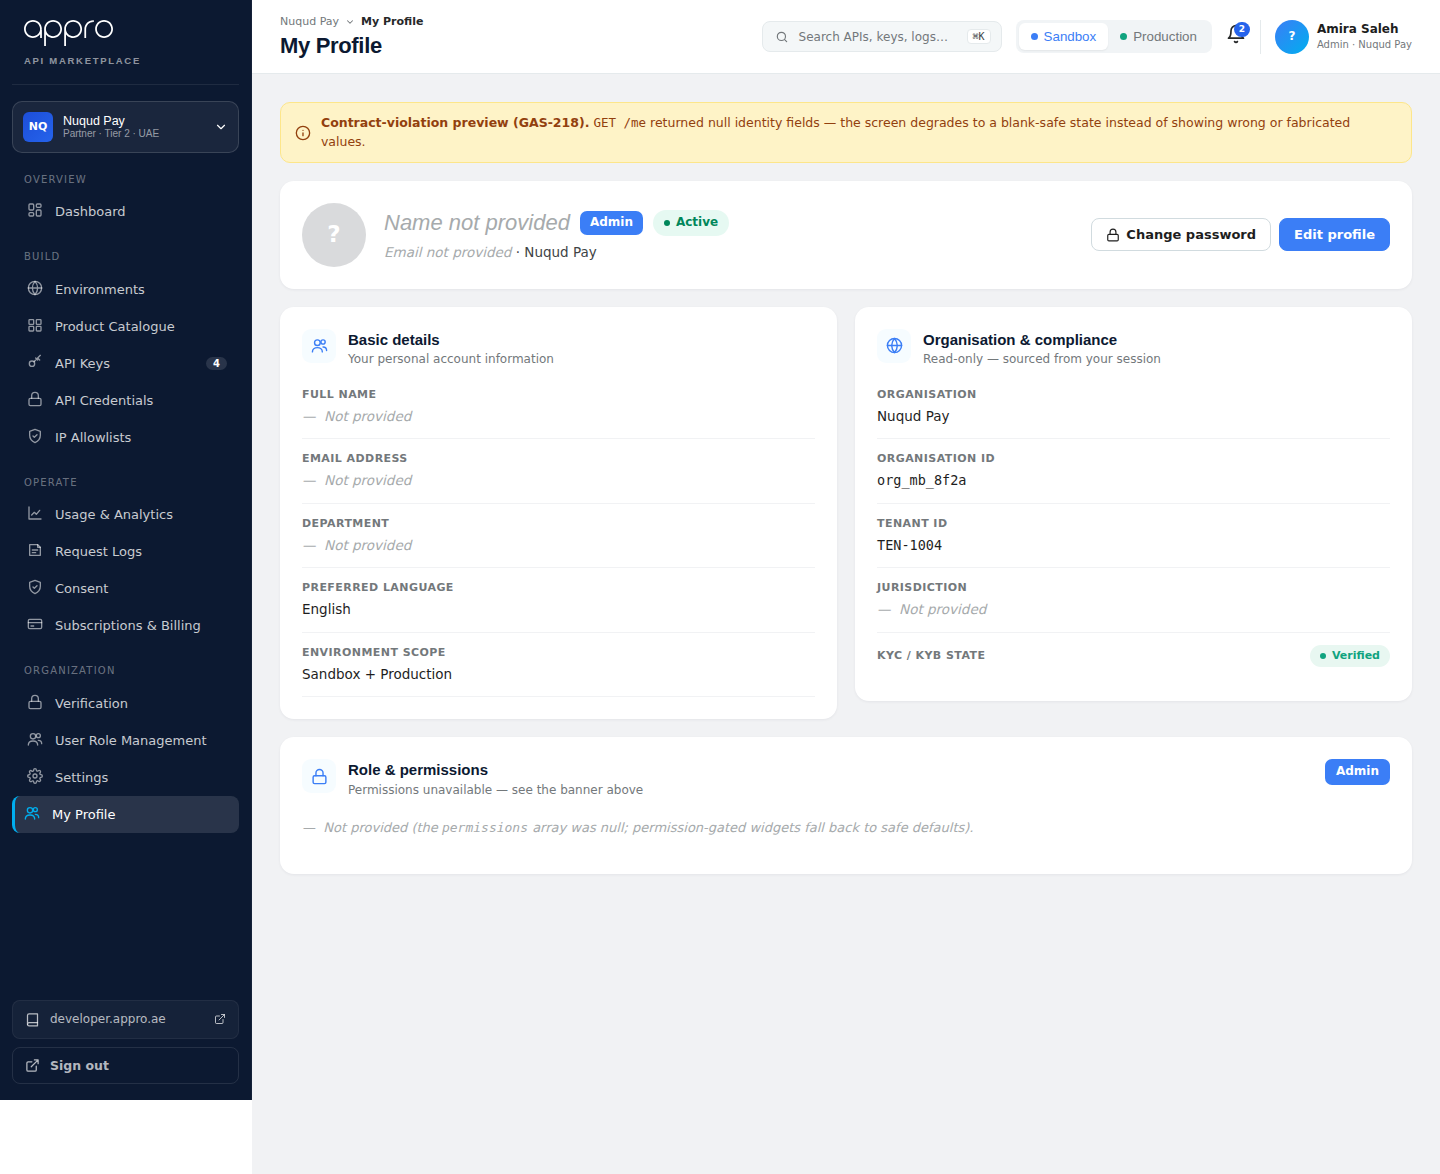
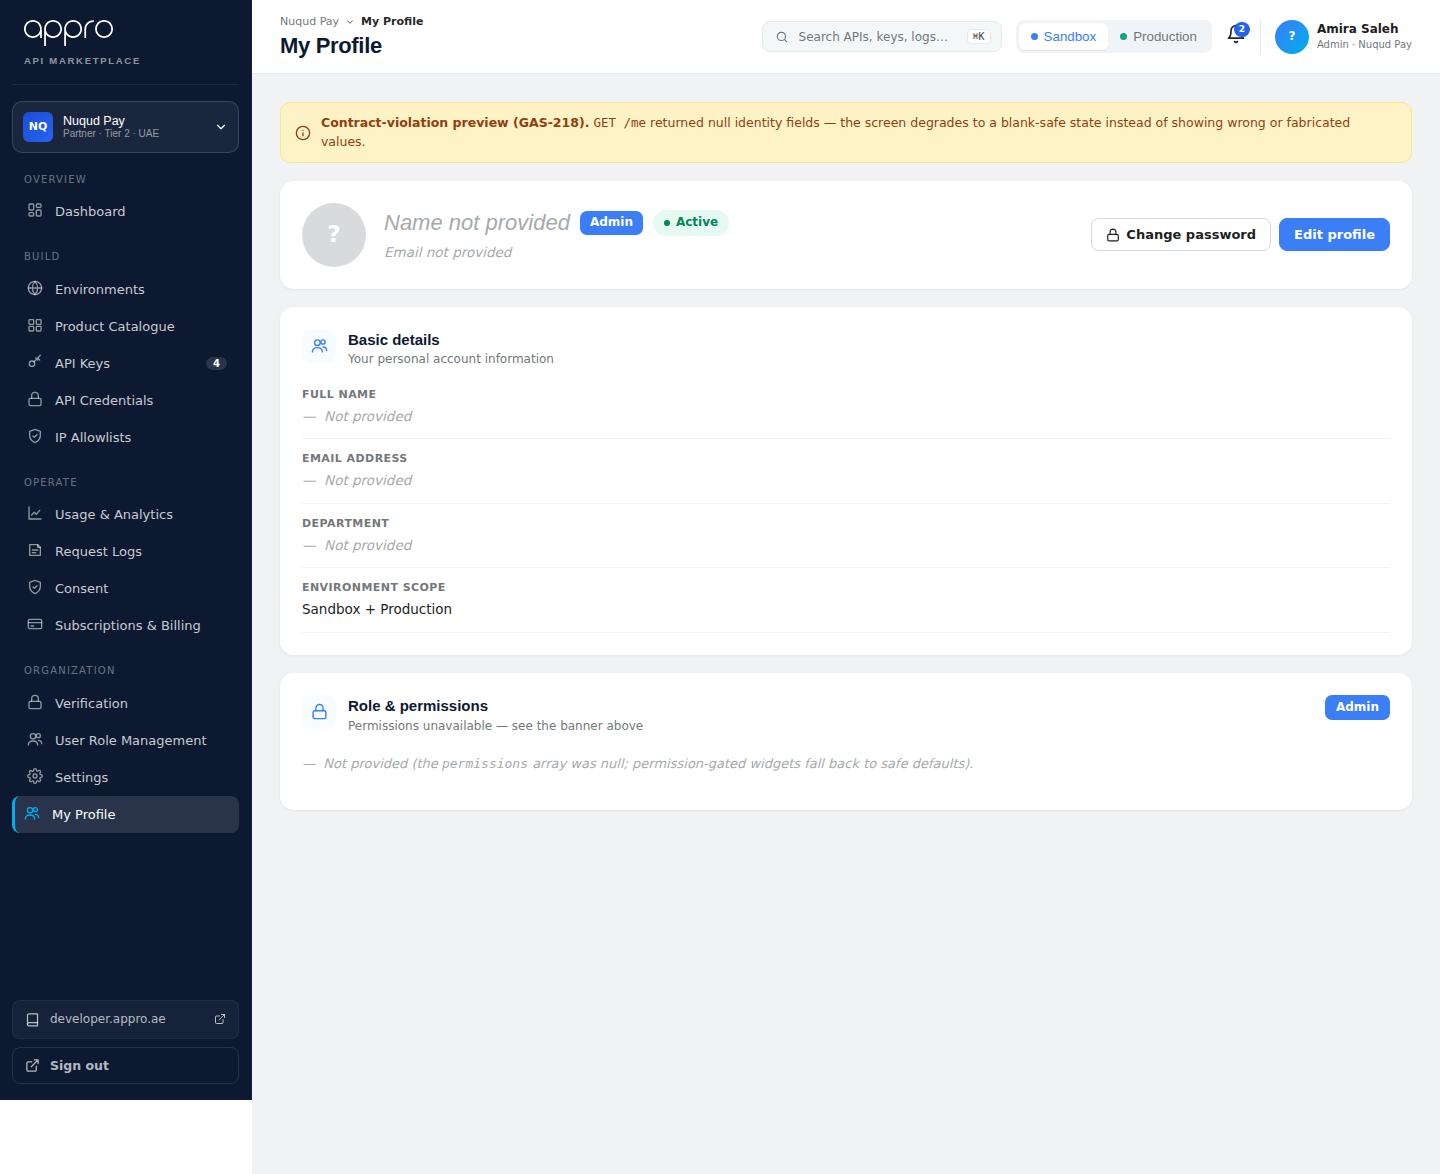
Profile: drop language + Organisation & compliance; refresh mockups

diff --git a/customer/js/14-profile.jsx b/customer/js/14-profile.jsx
@@ -169,7 +169,7 @@ function AccountProfile() {
             <span style={{ fontSize: 12, fontWeight: 700, color: '#fff', background: roleColor, padding: '3px 10px', borderRadius: 7 }}>{u.role}</span>
             <TURUserStatus on={u.status} />
           </div>
-          <div style={{ fontSize: 13.5, color: 'var(--ink-600)', marginTop: 4 }}>{u.email || <span style={{ color: 'var(--ink-400)', fontStyle: 'italic' }}>Email not provided</span>} · {u.org}</div>
+          <div style={{ fontSize: 13.5, color: 'var(--ink-600)', marginTop: 4 }}>{u.email || <span style={{ color: 'var(--ink-400)', fontStyle: 'italic' }}>Email not provided</span>}</div>
         </div>
         <div style={{ display: 'flex', gap: 8 }}>
           <Btn variant="secondary" icon="lock" onClick={() => setPwOpen(true)}>Change password</Btn>
@@ -177,9 +177,8 @@ function AccountProfile() {
         </div>
       </div>
 
-      <div style={{ display: 'grid', gridTemplateColumns: '1fr 1fr', gap: 18, alignItems: 'start' }}>
-        {/* Basic details (personal, partly editable) */}
-        <div style={{ background: '#fff', borderRadius: 14, boxShadow: '0 1px 3px rgba(12,25,49,.06)', padding: 22 }}>
+      {/* Basic details (personal, partly editable) */}
+      <div style={{ background: '#fff', borderRadius: 14, boxShadow: '0 1px 3px rgba(12,25,49,.06)', padding: 22 }}>
           <ProfCardHead icon="users" title="Basic details" sub="Your personal account information"
             right={edit ? null : null} />
           {!edit ? (
@@ -187,7 +186,6 @@ function AccountProfile() {
               <PField label="Full name" value={u.fullName} />
               <PField label="Email address" value={u.email} />
               <PField label="Department" value={u.dept} />
-              <PField label="Preferred language" value={lang} />
               <PField label="Environment scope" value={(u.env && u.env.length) ? u.env.join(' + ') : null} />
             </div>
           ) : (
@@ -201,30 +199,12 @@ function AccountProfile() {
               <select value={dept} onChange={e => setDept(e.target.value)} style={{ width: '100%', boxSizing: 'border-box', padding: '10px 12px', borderRadius: 10, border: '1px solid var(--ink-200)', fontSize: 14, fontFamily: 'var(--font-ui)', background: '#fff' }}>
                 {depts.map(d => <option key={d} value={d}>{d}</option>)}
               </select>
-              <label style={{ display: 'block', fontSize: 11, fontWeight: 600, color: 'var(--ink-500)', textTransform: 'uppercase', letterSpacing: '.04em', margin: '14px 0 5px' }}>Preferred language</label>
-              <select value={lang} onChange={e => setLang(e.target.value)} style={{ width: '100%', boxSizing: 'border-box', padding: '10px 12px', borderRadius: 10, border: '1px solid var(--ink-200)', fontSize: 14, fontFamily: 'var(--font-ui)', background: '#fff' }}>
-                {['English', 'العربية (Arabic)'].map(l => <option key={l} value={l}>{l}</option>)}
-              </select>
               <div style={{ display: 'flex', justifyContent: 'flex-end', gap: 8, marginTop: 18 }}>
                 <Btn variant="secondary" onClick={() => { setEdit(false); setName(u.fullName || ''); setDept(u.dept || ''); }}>Cancel</Btn>
                 <Btn variant="primary" icon="check" onClick={saveProfile}>Save</Btn>
               </div>
             </div>
           )}
-        </div>
-
-        {/* Organisation & compliance (read-only, from /me) */}
-        <div style={{ background: '#fff', borderRadius: 14, boxShadow: '0 1px 3px rgba(12,25,49,.06)', padding: 22 }}>
-          <ProfCardHead icon="globe" title="Organisation & compliance" sub="Read-only — sourced from your session" />
-          <PField label="Organisation" value={u.org} />
-          <PField label="Organisation ID" value={u.orgId} mono />
-          <PField label="Tenant ID" value={u.tenantId} mono />
-          <PField label="Jurisdiction" value={u.jurisdiction} />
-          <div style={{ display: 'flex', alignItems: 'center', justifyContent: 'space-between', padding: '12px 0' }}>
-            <div style={{ fontSize: 11, fontWeight: 600, color: 'var(--ink-500)', textTransform: 'uppercase', letterSpacing: '.04em' }}>KYC / KYB state</div>
-            <StatusPill kind={u.kycState === 'Verified' ? 'active' : u.kycState === 'In review' ? 'review' : 'pending'}>{u.kycState}</StatusPill>
-          </div>
-        </div>
       </div>
 
       {/* Roles & permissions (read-only, reflects /me permissions) */}

diff --git a/customer/index.html b/customer/index.html
@@ -61,7 +61,7 @@
   <script type="text/babel" src="js/07-consent.jsx?v=7"></script>
   <script type="text/babel" src="js/08-customer-billing.jsx?v=7"></script>
   <script type="text/babel" src="js/09-user-roles.jsx?v=3"></script>
-  <script type="text/babel" src="js/14-profile.jsx?v=2"></script>
+  <script type="text/babel" src="js/14-profile.jsx?v=3"></script>
   <script type="text/babel" src="js/app.jsx?v=14"></script>
 </body>
 </html>
